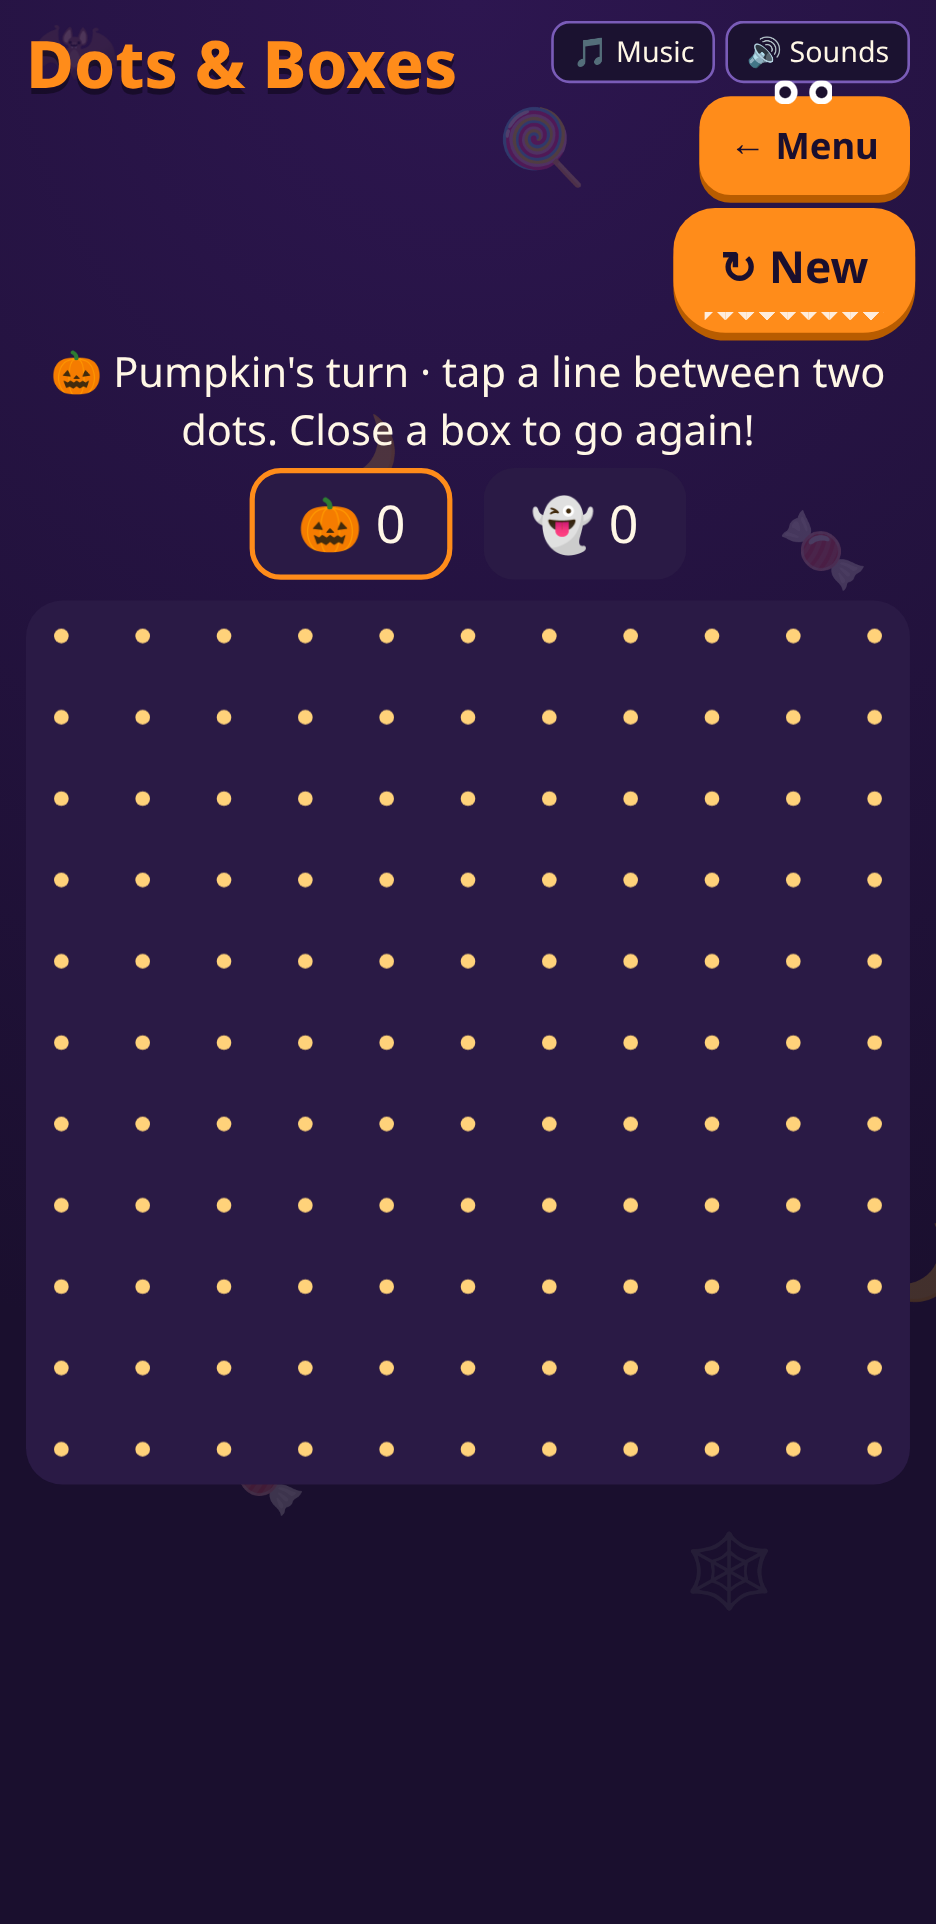
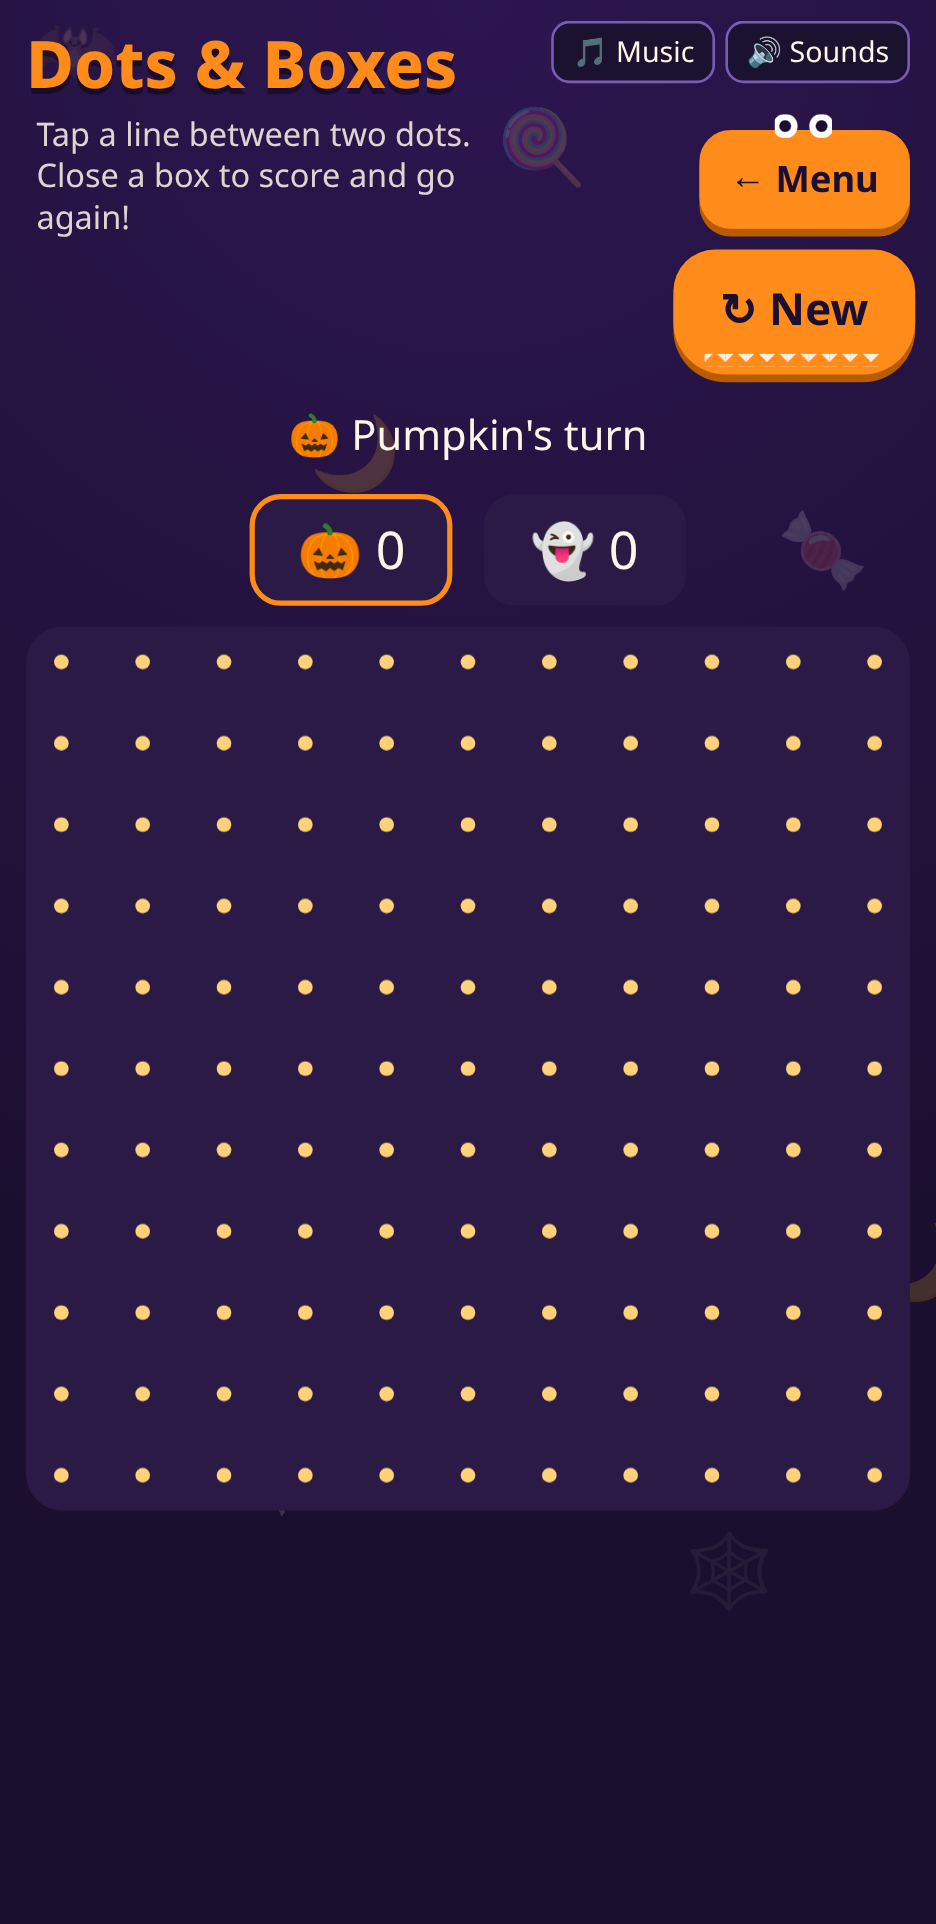
Lower button monster, instructions under title in all games, per-theme menu thumbnails

diff --git a/src/games/dots/index.ts b/src/games/dots/index.ts
@@ -49,7 +49,8 @@ export function mount(el: HTMLElement, opts: GameOpts): GameHandle {
                  h("span", { class: s.turn === 2 && !s.over ? "on p2" : "p2" }, `${t.pieces.p2.emoji} ${s.score[1]}`));
     F.status.textContent = win === "draw" ? "It's a tie! 🤝" : win ? `${win === 1 ? t.pieces.p1.emoji + " " + t.pieces.p1.name : t.pieces.p2.emoji + " " + t.pieces.p2.name} wins! 🎉`
       : (cpu && s.turn === 2 ? "🤖 Computer's turn" : `${s.turn === 1 ? t.pieces.p1.emoji + " " + t.pieces.p1.name : t.pieces.p2.emoji + " " + t.pieces.p2.name}'s turn`)
-        + (combo ? ` · 🔥 combo x${combo} — go again!` : " · tap a line between two dots. Close a box to go again!");
+        + (combo ? ` · 🔥 combo x${combo}!` : "");
+    F.info.textContent = "Tap a line between two dots. Close a box to score and go again!";
   }
   /** Nearest edge to a point (in CSS px), within half a gap. */
   function edgeAt(x: number, y: number): L.Edge | null {

diff --git a/src/games/mannequin/index.ts b/src/games/mannequin/index.ts
@@ -48,6 +48,7 @@ export function mount(el: HTMLElement, opts: GameOpts): GameHandle {
   window.addEventListener("keydown", onKey);
 
   function renderSetup() {
+    F.info.textContent = "2 players: one picks a secret word, the other guesses.";
     F.wrap.classList.remove("mq-game");
     F.status.textContent = "Player 1: type a secret word (Player 2 looks away!)";
     F.body.innerHTML = "";
@@ -59,6 +60,7 @@ export function mount(el: HTMLElement, opts: GameOpts): GameHandle {
   }
   function render() {
     if (setup) return renderSetup();
+    F.info.textContent = "Guess the letters. Each miss adds a piece to the mannequin. Solve the word before it's finished!";
     F.wrap.classList.add("mq-game"); F.status.textContent = "";
     const placed = L.partsPlaced(s), left = s.maxWrong - placed;
     const msg = s.status === "won" ? `🎉 ${fill(m.winText)}` : s.status === "lost" ? `${fill(m.loseText)} The word was ${s.word}.`

diff --git a/src/style.css b/src/style.css
@@ -107,3 +107,11 @@ canvas.dots{touch-action:none;background:var(--panel);border-radius:14px}
 .mq-game .keys{flex:none;gap:5px}.mq-game .key{min-height:42px;padding:0;font-size:17px}
 .keys.done{display:flex;justify-content:center;align-items:center;height:calc(4 * 42px + 15px)}
 @media (min-height:880px){.mq-game .key{min-height:52px}.keys.done{height:calc(4*52px + 15px)}.awning{font-size:11.5px}}
+/* --- round 5: info under title, lowered monster, thumbnails --- */
+.hleft{flex:1;min-width:0}
+.info{margin:4px 0 0 4px;font-size:12.5px;line-height:1.3;opacity:.85;text-align:left;max-width:30ch}
+.info:empty{display:none}
+.monster{gap:6px}.monster .togs{margin-bottom:12px}
+.mbtn.m2{margin-top:2px}
+.game .hint{display:none}
+.thumb{width:72px;height:72px;border-radius:14px;object-fit:cover;flex:none;border:2px solid var(--line)}

diff --git a/src/main.ts b/src/main.ts
@@ -33,7 +33,7 @@ function menu() {
     h("h1", {}, `${theme.pieces.p1.emoji} ${theme.title} ${theme.pieces.p2.emoji}`),
     h("p", { class: "sub" }, `${theme.name} edition · pick a game`), audioToggles());
   for (const [id, g] of Object.entries(GAMES))
-    m.append(h("div", { class: "card" }, h("button", { class: "play", onclick: () => options(id) }, h("span", { class: "icon" }, g.icon), h("span", {}, h("b", {}, g.name), h("small", {}, g.blurb)))));
+    m.append(h("div", { class: "card" }, h("button", { class: "play", onclick: () => options(id) }, (theme.art?.[id] ? h("img", { class: "thumb", src: theme.art[id], alt: g.name, width: 72, height: 72 }) : h("span", { class: "icon" }, g.icon)), h("span", {}, h("b", {}, g.name), h("small", {}, g.blurb)))));
   app.append(m);
   history.replaceState(null, "", keepTheme());
 }

diff --git a/src/ui.ts b/src/ui.ts
@@ -30,8 +30,9 @@ export function frame(el: HTMLElement, title: string, onExit: (() => void) | und
   const monster = h("div", { class: "monster" }, audioToggles(),
     onExit ? h("button", { class: "btn mbtn m1", onclick: onExit }, h("i", { class: "eyes" }), "← Menu") : h("span"),
     h("button", { class: "btn mbtn m2", onclick: onReset }, "↻ New", h("i", { class: "teeth" })));
-  const bar = h("div", { class: "hdr" }, h("h2", { class: "title" }, title), monster);
+  const info = h("p", { class: "info" });
+  const bar = h("div", { class: "hdr" }, h("div", { class: "hleft" }, h("h2", { class: "title" }, title), info), monster);
   const wrap = h("div", { class: "game" }, bar, status, body);
   el.append(wrap);
-  return { status, body, wrap };
+  return { status, body, wrap, info };
 }

diff --git a/src/themes/halloween.ts b/src/themes/halloween.ts
@@ -6,6 +6,7 @@ export const halloween: Theme = {
     p1: "#ff8c1a", p2: "#c9b8ff", line: "#7a5cb8", dot: "#ffd27a" },
   pieces: { p1: { emoji: "🎃", name: "Pumpkin" }, p2: { emoji: "👻", name: "Ghost" } },
   decorations: ["🦇", "🕸", "🍬", "🌙", "🕷", "🍭"],
+  art: { tictactoe: "/halloween/tictactoe.webp", dots: "/halloween/dots.webp", mannequin: "/halloween/mannequin.webp" },
   mannequin: {
     storeName: "Boo Boutique",
     winText: "You solved it before the {name} was finished!",

diff --git a/src/games/tictactoe/index.ts b/src/games/tictactoe/index.ts
@@ -32,7 +32,7 @@ export function mount(el: HTMLElement, opts: GameOpts): GameHandle {
     F.status.innerHTML = "";
     F.status.append(h("span", { class: "turnchip" }, statusText()));
     F.body.innerHTML = "";
-    F.body.append(h("div", { class: "hint" }, hintText()));
+    F.info.textContent = hintText();
     if (!superMode) {
       const g = h("div", { class: "ttt big" });
       const wl = L.winLine(c.board) ?? [];

diff --git a/src/themes/types.ts b/src/themes/types.ts
@@ -11,6 +11,8 @@ export interface Theme {
   pieces: { p1: { emoji: string; name: string }; p2: { emoji: string; name: string } };
   /** Floating decorations for the background / window display */
   decorations: string[];
+  /** Menu card pictures per game id (paths under public/). */
+  art: Record<string, string>;
   mannequin: {
     storeName: string;
     winText: string; loseText: string;
